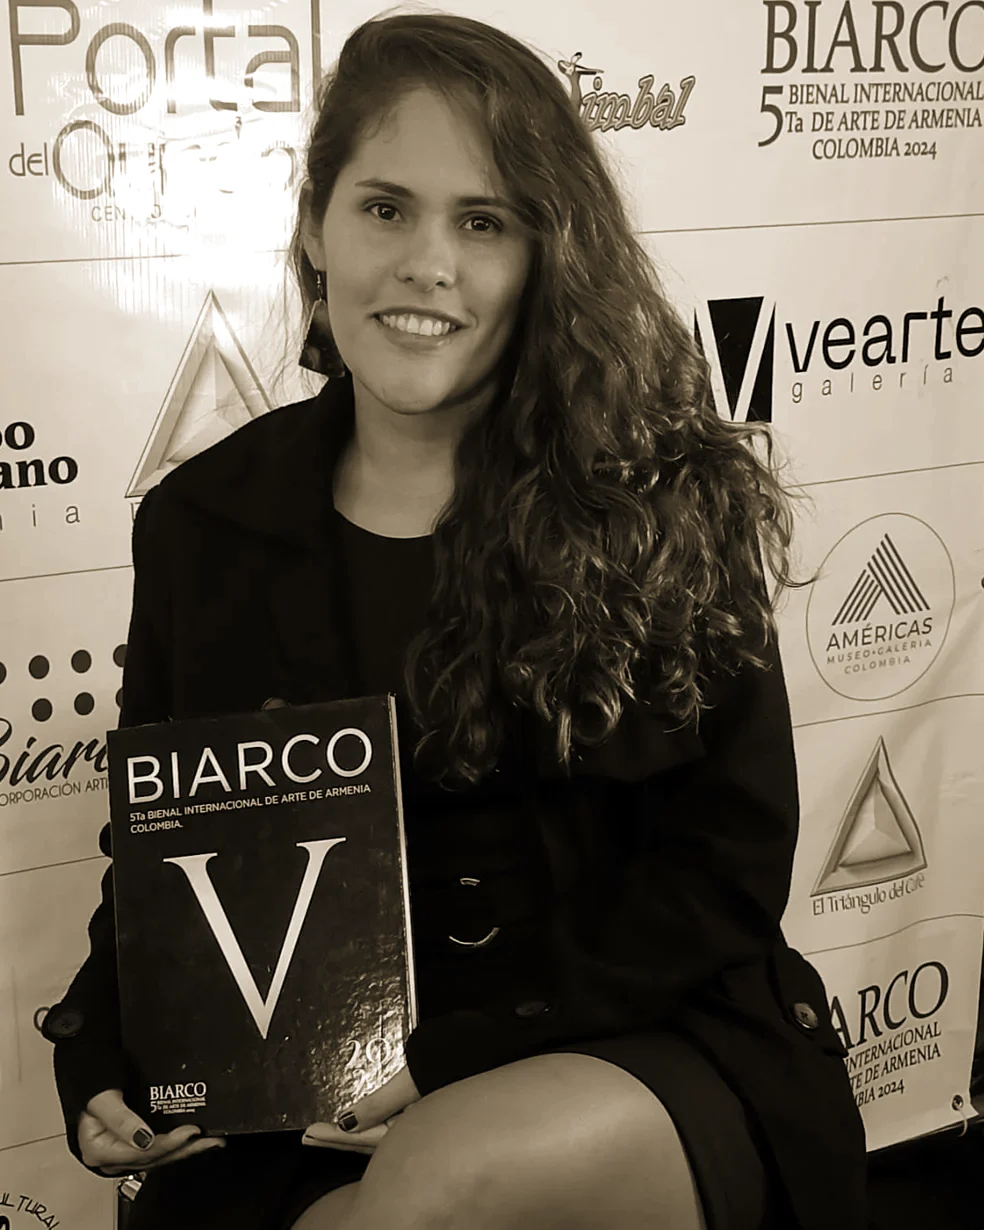
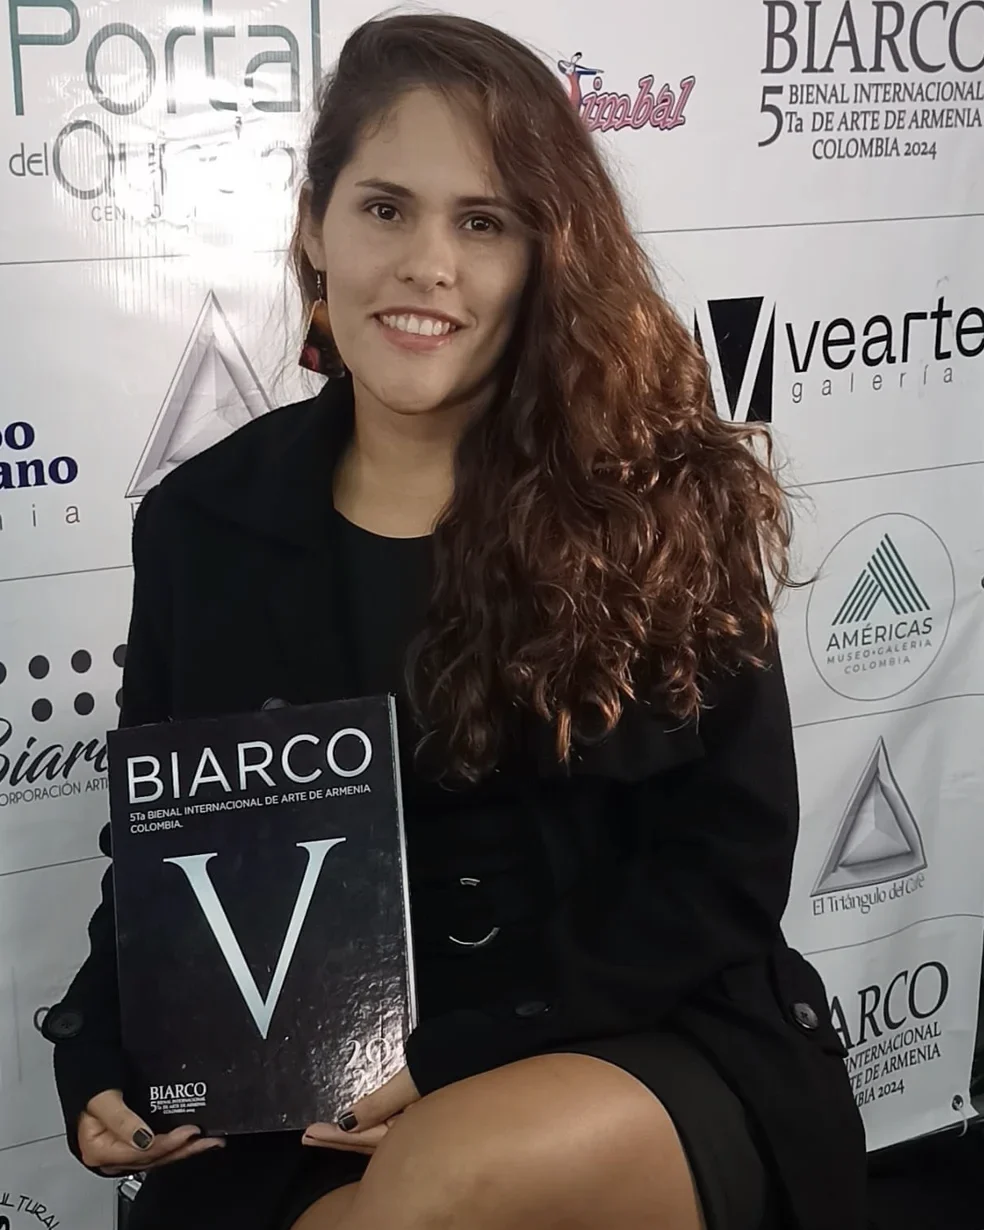
Portrait back to muted natural color

diff --git a/docs/SPEC.md b/docs/SPEC.md
@@ -317,7 +317,7 @@ Resultado: en 390×844 y 1440×900 cada sección apilada termina en el borde inf
 - Las apariciones copian las de Arko: suben 4rem, pasan de desenfocadas a nítidas y aparecen en 1 s, escalonadas con `--d`. Ahora también las obras (tarjetas de la home, `/obras` y relacionadas, 0/120/240 ms por columna) y la obra insignia. Se mantienen las secciones apiladas y el scroll suave.
 - El observador de apariciones usa `threshold: 0` sin margen inferior: con el margen de −10 % el botón de WhatsApp del pie, en la última franja de la página, no llegaba a aparecer nunca.
 - Foto de la artista centrada en su columna y anclada arriba (`object-top`), para que la cara quede dentro del arco.
-- La foto ya no parece un parche. `stephany-portrait-biarco.webp` sale de la foto original del evento, que se conserva como fuente: recorte de retrato de la cabeza al catálogo, blanco y negro cálido con sharp, para que el photocall deje de competir con las obras. Abajo se funde con la banda (`.fade-bottom`) y lleva un pie que da contexto: "En la 5.ª Bienal Internacional de Arte de Armenia, 2024". Sigue pendiente una foto de Stephany pintando en el taller.
+- La foto ya no parece un parche. `stephany-portrait-biarco.webp` sale de la foto original del evento, que se conserva como fuente: recorte de retrato de la cabeza al catálogo, color natural con la saturación al 72 % con sharp, para que los logos del photocall no compitan con las obras (se probó blanco y negro cálido y se descartó: la dejaba "como de otra época"). Abajo se funde con la banda (`.fade-bottom`) y lleva un pie que da contexto: "En la 5.ª Bienal Internacional de Arte de Armenia, 2024". Sigue pendiente una foto de Stephany pintando en el taller.
 
 ---
 
